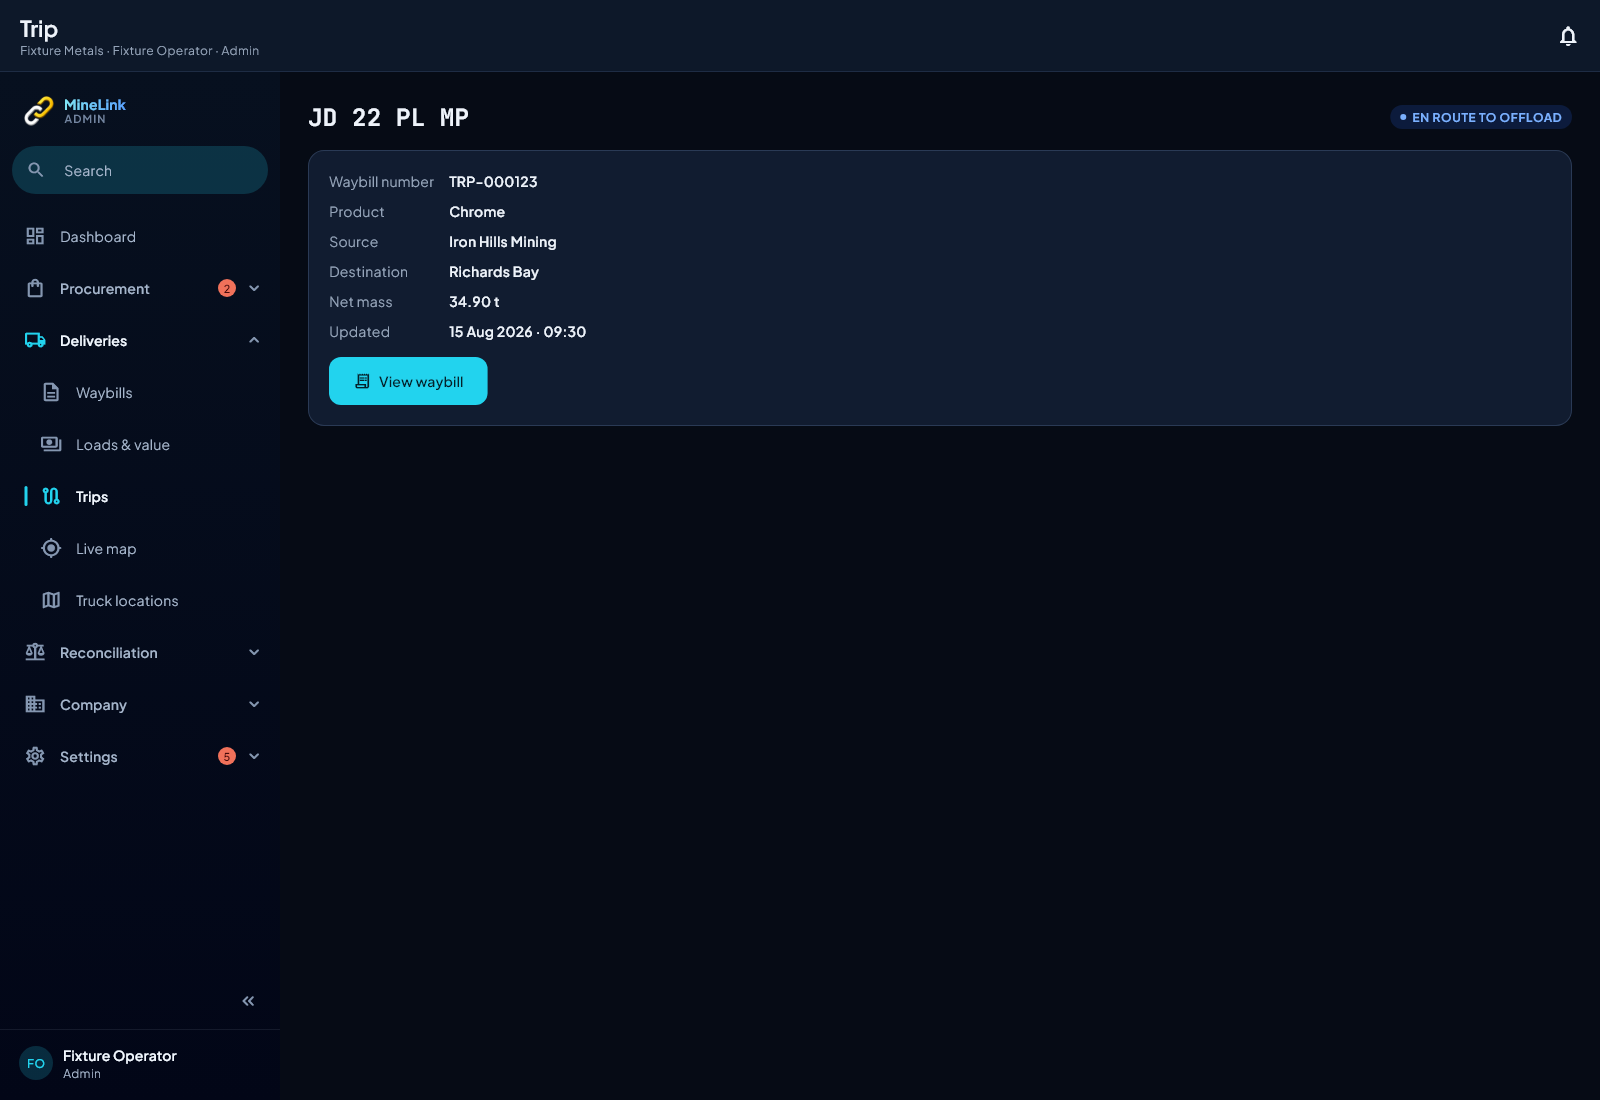
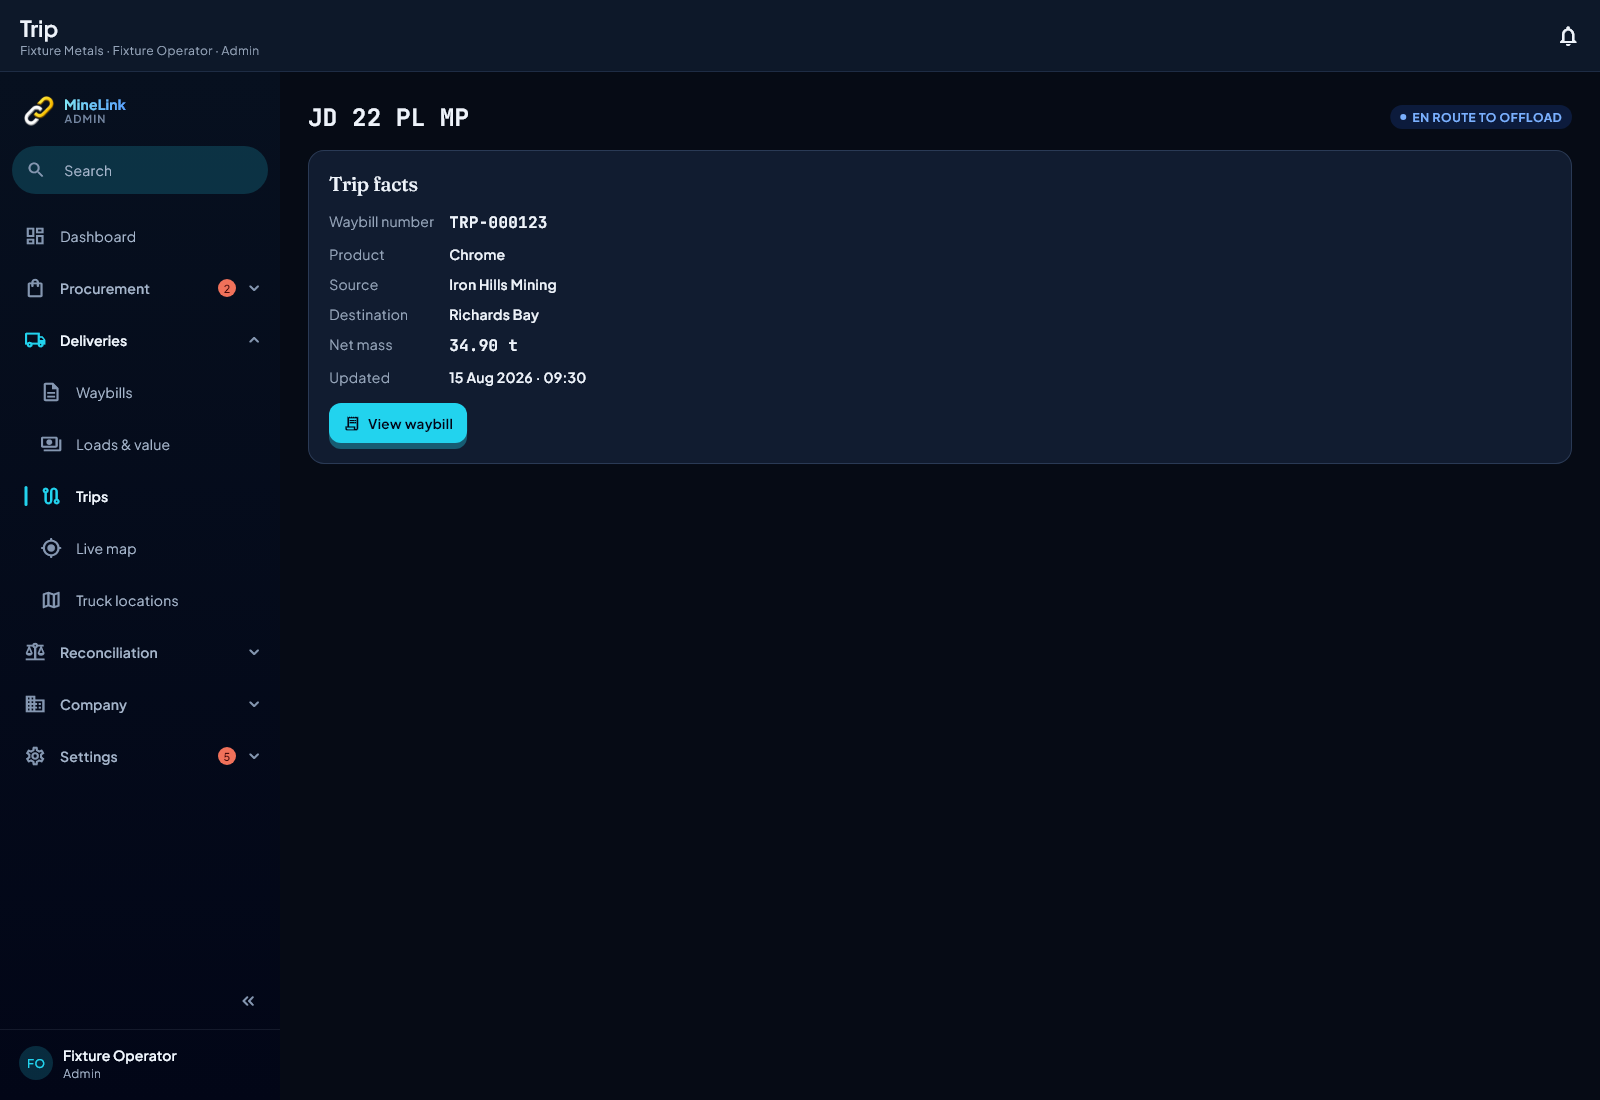
fix(trip): the trip's facts sit in a card that names itself, and a reference code reads in the code face
Reviewer finding #44, verified in `screen-trip-detail-desktop-dark`.

THE FACES. The plate at the top of this screen is already `MlType.code`, under
a comment saying why — "a plate is a code, not a numeral". Two rows below it
the waybill number, `TRP-000123`, was PlusJakartaSans w600, and so was the net
mass `34.90 t`. The buyer's Loads & value table one route over prints
`INV-2026-0001` and `34.90 t` in JetBrainsMono, and the recon table prints this
exact reference in mono too. A reference that reads in two faces is one
reference and two products.

The fact list carries a per-row `isCode` flag rather than a blanket face,
because sweeping the whole value column into mono is the same fault the other
way round: "Chrome", "Iron Hills Mining" and "Richards Bay" are names, not
codes. Both directions are pinned.

THE CARD. The facts sat in a hand-rolled `Container` repainting `MlCard`'s own
surface, radius and border by hand, with no heading of any kind — so the single
panel on the screen floated under the plate unlabelled. It is `MlCard` +
`MlSectionTitle('Trip facts')` now, which is what every other panel in the
portal is.

Deliberately NO meta on that section title. §5.4 asks every section for one and
15 of this product's 63 section titles correctly have none: there is no count
here, and every fact worth putting in a meta is already a row underneath it.
This pass has now found a meta that counted the wrong thing four times;
inventing one here would have been the fifth.
[…]

Changed region(s): [[0.1875, 0.1545, 1.0, 0.4327]]

diff --git a/lib/features/portal/screens/portal_trip_detail_screen.dart b/lib/features/portal/screens/portal_trip_detail_screen.dart
@@ -84,24 +84,32 @@ class PortalTripDetailScreen extends ConsumerWidget {
     final status = TripStatus.parse(trip.status);
     final tone = tripStatusTone(status);
     final meta = txn?.metadata ?? const <String, dynamic>{};
-    final facts = <(String, String)>[
-      if (txn != null) ('Waybill number', txn.referenceNumber),
+    // (label, value, isCode) — a CODE or a FIGURE is mono, everything
+    // else is the body face. `docs/design-reference.md` §5.3: Fraunces for
+    // display numerals, JetBrainsMono for figures in columns,
+    // PlusJakartaSans elsewhere. `TRP-000123` and `34.90 t` were both
+    // PlusJakartaSans w600 here — the same drift `4ef7ee1` fixed on
+    // `MetricBreakdownRow`, and the plate two lines above this table is
+    // already `MlType.code`. A waybill number that reads in one face on
+    // the recon table and another here is one reference, two products.
+    final facts = <(String, String, bool)>[
+      if (txn != null) ('Waybill number', txn.referenceNumber, true),
       // NOT "Truck registration". The plate is the hero at the top of this
       // screen, in 32px mono; repeating it as the second row of the fact table
       // spent a line saying what the reader had already read.
       if (meta['commodity'] is String && (meta['commodity'] as String).isNotEmpty)
-        ('Product', meta['commodity'] as String),
+        ('Product', meta['commodity'] as String, false),
       // SOURCE and DESTINATION, not destination alone. The recon table names
       // both for every load and this screen named half of it, so a trip could
       // be read here without knowing which mine it came out of.
       if (meta['loading_point'] is String &&
           (meta['loading_point'] as String).isNotEmpty)
-        ('Source', meta['loading_point'] as String),
+        ('Source', meta['loading_point'] as String, false),
       if (meta['offloading_point'] is String &&
           (meta['offloading_point'] as String).isNotEmpty)
-        ('Destination', meta['offloading_point'] as String),
+        ('Destination', meta['offloading_point'] as String, false),
       if (trip.netTons != null)
-        ('Net mass', '${trip.netTons!.toStringAsFixed(2)} t'),
+        ('Net mass', '${trip.netTons!.toStringAsFixed(2)} t', true),
       // THE DATE CAME FROM UTC AND THE TIME FROM SAST.
       //
       // `formatShortDate(trip.updatedAt)` formatted the raw instant while the
@@ -111,7 +119,7 @@ class PortalTripDetailScreen extends ConsumerWidget {
       // when a load moved. It was also the READER'S LOCALE: an American
       // buyer's screen said `8/15/2026 9:30 AM` where a South African's said
       // `15/08/2026 09:30`, for the same load.
-      ('Updated', MlTime.stamp(trip.updatedAt)),
+      ('Updated', MlTime.stamp(trip.updatedAt), false),
     ];
     return MlPageBody(
       child: Column(
@@ -137,18 +145,29 @@ class PortalTripDetailScreen extends ConsumerWidget {
             ],
           ),
           const SizedBox(height: 16),
-          Container(
-            width: double.infinity,
-            padding: const EdgeInsets.all(20),
-            decoration: BoxDecoration(
-              color: semantic.surfaceCard,
-              borderRadius: BorderRadius.circular(MlTokens.rLg),
-              border: Border.all(color: semantic.borderCard),
-            ),
+          // A CARD, AND A CARD SAYS WHAT IT IS.
+          //
+          // This was a hand-rolled `Container` repainting `MlCard`'s own
+          // surface, radius and border by hand, with no heading at all —
+          // so the one panel on the screen floated under the plate
+          // unlabelled. `MlCard` + `MlSectionTitle` is what every other
+          // panel in the portal is.
+          //
+          // NO META, deliberately. §5.4 asks every section for one, and 15
+          // of the 63 section titles in this product correctly have none:
+          // there is no count here, and every fact worth putting in a meta
+          // is already a row below it. This pass has found a meta that
+          // counted the wrong thing four times; inventing one here would
+          // be the fifth.
+          MlCard(
             child: Column(
               crossAxisAlignment: CrossAxisAlignment.start,
               children: [
-                for (final (label, value) in facts)
+                const MlSectionTitle(
+                  'Trip facts',
+                  margin: EdgeInsets.only(bottom: 14),
+                ),
+                for (final (label, value, isCode) in facts)
                   Padding(
                     padding: const EdgeInsets.only(bottom: 10),
                     child: Row(
@@ -174,25 +193,35 @@ class PortalTripDetailScreen extends ConsumerWidget {
                         Expanded(
                           child: Text(
                             value,
-                            style: TextStyle(
-                              color: semantic.textStrong,
-                              fontWeight: FontWeight.w600,
-                            ),
+                            style: isCode
+                                ? MlType.code(
+                                    color: semantic.textStrong,
+                                    size: MlTokens.fsBody,
+                                    weight: FontWeight.w600,
+                                  )
+                                : context.mlText.bodyMedium.copyWith(
+                                    color: semantic.textStrong,
+                                    fontWeight: FontWeight.w600,
+                                  ),
                           ),
                         ),
                       ],
                     ),
                   ),
                 const SizedBox(height: 6),
-                FilledButton.icon(
+                // Stock Material on a redesigned screen — the same drift
+                // the Requests screen's two buttons carried, in the same
+                // pass. `MlButton` is the product's button.
+                MlButton.primary(
+                  label: 'View waybill',
+                  icon: Icons.receipt_long_outlined,
+                  compact: true,
                   onPressed: () => showWaybillModal(
                     context,
                     ref,
                     tripId: trip.id,
                     waybillNumber: txn?.referenceNumber,
                   ),
-                  icon: const Icon(Icons.receipt_long_outlined, size: 18),
-                  label: const Text('View waybill'),
                 ),
               ],
             ),

diff --git a/test/features/portal/trip_detail_faces_and_card_test.dart b/test/features/portal/trip_detail_faces_and_card_test.dart
@@ -1,0 +1,143 @@
+// The trip detail screen: a card that says what it is, and codes in the code
+// face.
+//
+// Phase 3 mine-portal pass, 2026-08-23 (reviewer finding #44, verified in
+// `screen-trip-detail-desktop-dark`).
+//
+// The plate at the top of this screen is already `MlType.code`, with a comment
+// saying why: "a plate is a code, not a numeral". Two rows below it the
+// WAYBILL NUMBER — `TRP-000123`, the transaction reference, the same string
+// the recon table prints in JetBrainsMono — was PlusJakartaSans w600, and so
+// was the net mass. The buyer's Loads & value table one route over prints
+// `INV-2026-0001` and `34.90 t` in mono in the same product; a reference that
+// reads in two faces is one reference and two products.
+//
+// The facts also sat in a hand-rolled `Container` repainting `MlCard`'s
+// surface, radius and border by hand, with no heading at all — so the one
+// panel on the screen floated under the plate unlabelled — and its single
+// action was a stock `FilledButton.icon`, the same drift the Requests screen
+// carried in this pass.
+
+import 'package:flutter/material.dart';
+import 'package:flutter/rendering.dart';
+import 'package:flutter_riverpod/flutter_riverpod.dart';
+import 'package:flutter_test/flutter_test.dart';
+import 'package:shared_preferences/shared_preferences.dart';
+import 'package:supabase_flutter/supabase_flutter.dart';
+
+import 'package:flutter_application_1/core/design/components/ml_components.dart';
+import 'package:flutter_application_1/core/theme/app_theme.dart';
+import 'package:flutter_application_1/features/auth/models/user_type.dart';
+import 'package:flutter_application_1/features/portal/screens/portal_trip_detail_screen.dart';
+
+import '../../fixtures/portal_capture_fixtures.dart';
+import '../../fixtures/portal_tail_fixtures.dart';
+import '../../fixtures/screen_fixtures.dart';
+import '../../test_helpers/real_fonts.dart';
+import '../../test_helpers/frozen_clock.dart';
+
+void main() {
+  setUpAll(() async {
+    freezeCaptureClock();
+    await loadRealFonts();
+    SharedPreferences.setMockInitialValues({});
+    await Supabase.initialize(
+      url: 'http://localhost:54321',
+      anonKey: 'trip-detail-faces-test',
+    );
+  });
+
+  Future<void> pump(WidgetTester tester, {double width = 1600}) async {
+    tester.view.physicalSize = Size(width, 1400);
+    tester.view.devicePixelRatio = 1.0;
+    addTearDown(tester.view.reset);
+    await tester.pumpWidget(
+      ProviderScope(
+        overrides: [
+          ...companyScopeOverrides(
+            role: UserRole.admin,
+            orgType: OrgType.buyer,
+          ),
+          ...portalCaptureOverrides(),
+          ...portalTailOverrides(),
+        ],
+        child: MaterialApp(
+          theme: AppTheme.darkTheme,
+          home: const Scaffold(
+            body: PortalTripDetailScreen(tripId: 't-2'),
+          ),
+        ),
+      ),
+    );
+    await tester.pump();
+    await tester.pump(const Duration(milliseconds: 600));
+  }
+
+  /// The font family the text [t] is actually drawn in.
+  String? familyOf(WidgetTester tester, String t) =>
+      (find.text(t).evaluate().single.renderObject! as RenderParagraph)
+          .text
+          .style
+          ?.fontFamily;
+
+  testWidgets('the waybill number and the net mass are in the code face', (
+    tester,
+  ) async {
+    await pump(tester);
+
+    expect(
+      familyOf(tester, 'TRP-000123'),
+      MlTokens.fontMono,
+      reason:
+          'the recon table and the buyer\'s Loads & value print this exact '
+          'reference in mono',
+    );
+    expect(familyOf(tester, '34.90 t'), MlTokens.fontMono);
+  });
+
+  // The GREEN case: the words are still words. Mono is for codes and figures,
+  // not for everything in the value column — sweeping the whole column into
+  // the code face would be a different fault of the same kind.
+  testWidgets('the prose facts stay in the body face', (tester) async {
+    await pump(tester);
+
+    for (final prose in ['Chrome', 'Iron Hills Mining', 'Richards Bay']) {
+      expect(
+        familyOf(tester, prose),
+        isNot(MlTokens.fontMono),
+        reason: '"$prose" is a name, not a code',
+      );
+    }
+  });
+
+  testWidgets('the facts sit in a card that names itself', (tester) async {
+    await pump(tester);
+
+    expect(find.byType(MlCard), findsWidgets);
+    expect(
+      find.descendant(
+        of: find.byType(MlCard),
+        matching: find.text('Trip facts'),
+      ),
+      findsOneWidget,
+      reason: 'the one panel on the screen had no heading at all',
+    );
+    expect(
+      find.byType(MlSectionTitle),
+      findsOneWidget,
+      reason: 'and the heading is the shared one, not another hand-rolled Text',
+    );
+  });
+
+  testWidgets('the waybill action is the product\'s button', (tester) async {
+    await pump(tester);
+
+    expect(find.text('View waybill'), findsOneWidget);
+    expect(find.byType(MlButton), findsWidgets);
+    expect(
+      find.byType(FilledButton),
+      findsNothing,
+      reason: 'stock Material on a redesigned screen',
+    );
+  });
+}
